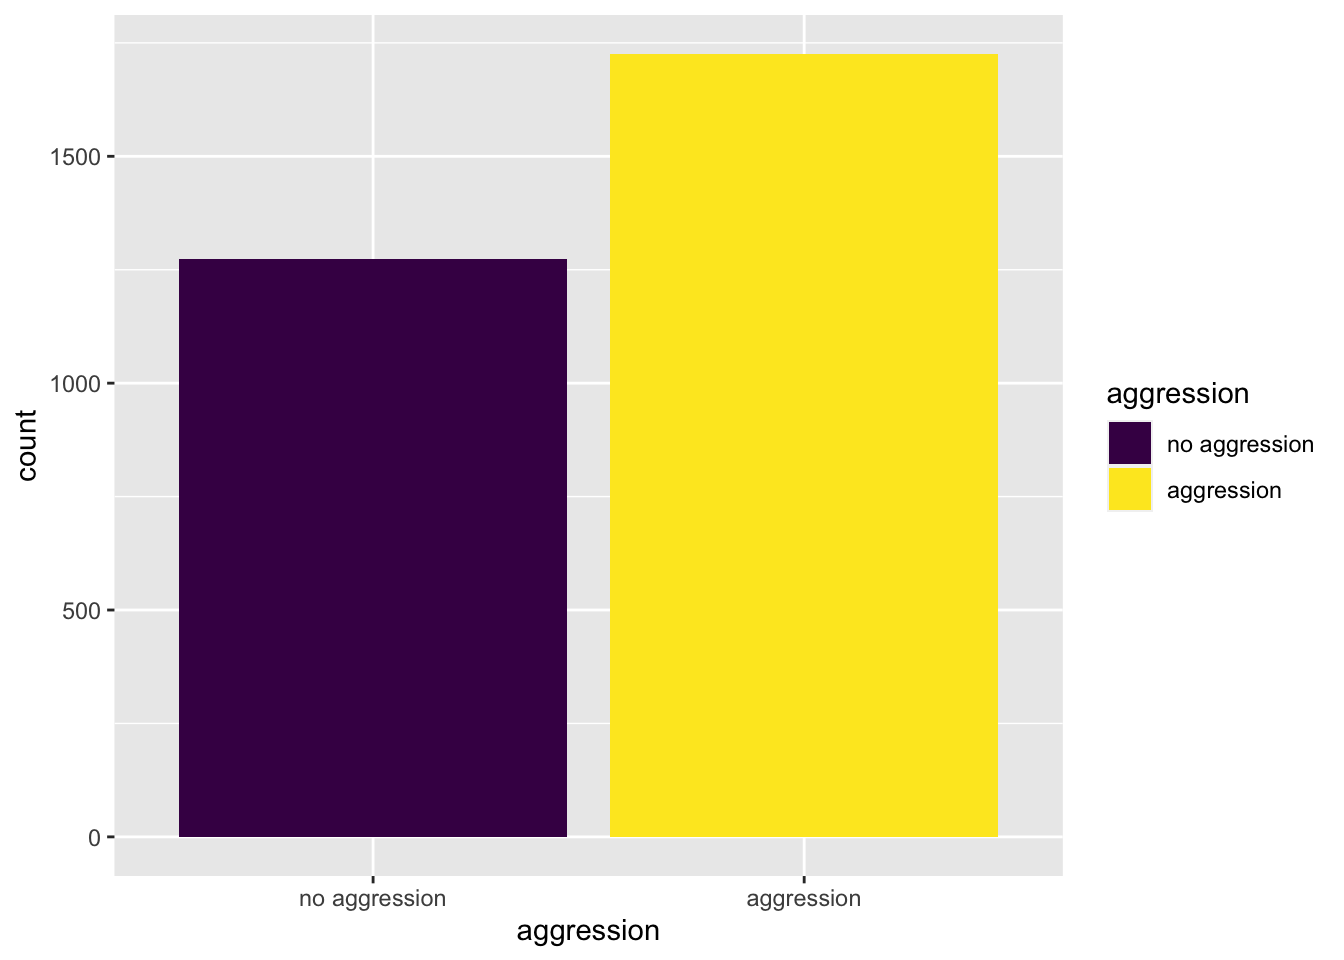
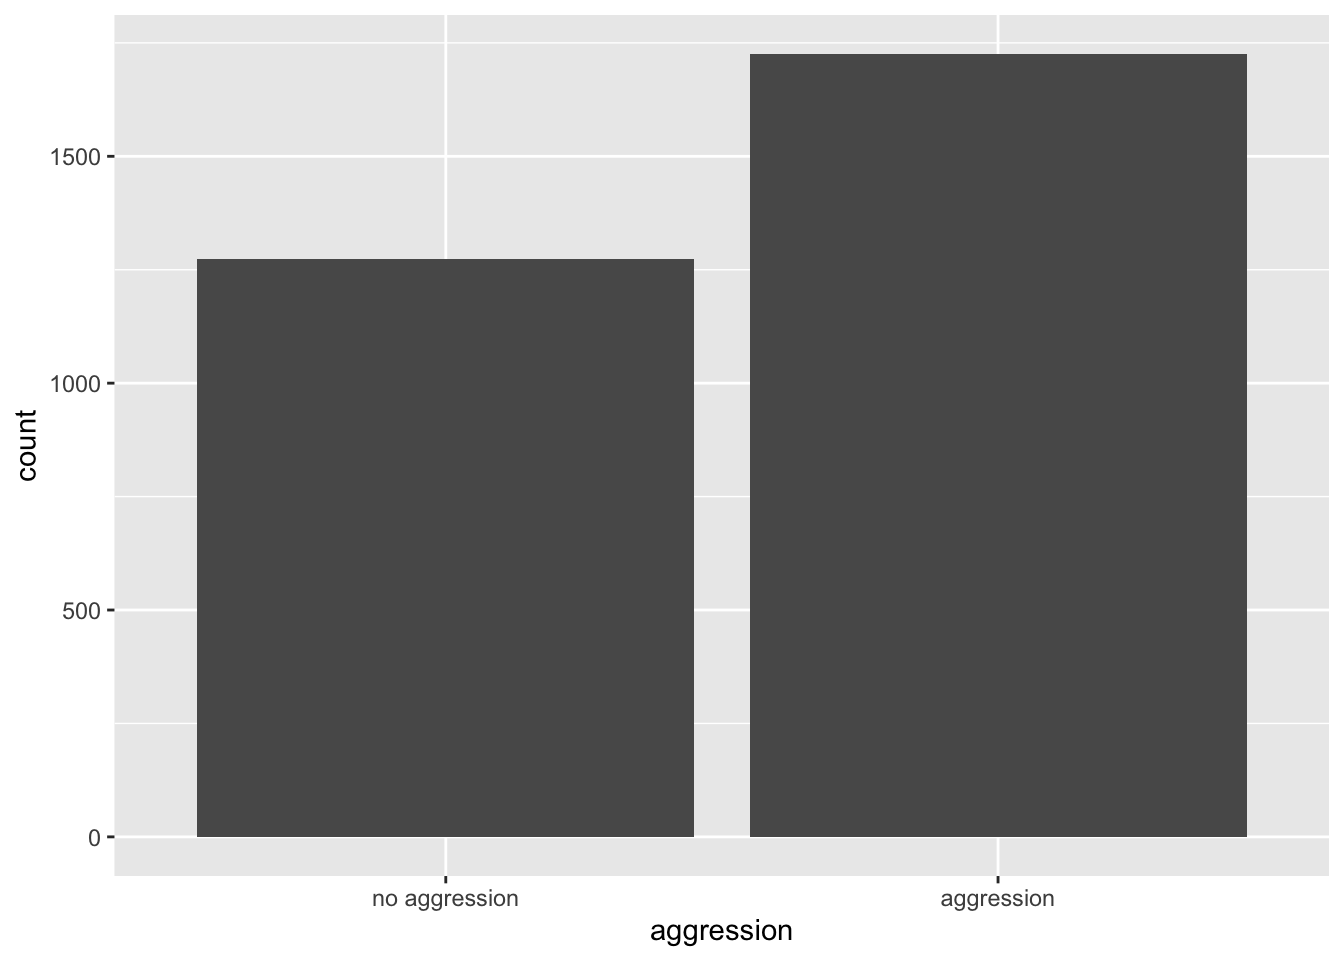
rebuilt and published to quarto

diff --git a/docs/quick-intro-ggplot2.html b/docs/quick-intro-ggplot2.html
@@ -368,9 +368,8 @@ code span.wa { color: #60a0b0; font-weight: bold; font-style: italic; } /* Warni
 </div>
 <div class="cell">
 <div class="sourceCode cell-code" id="cb6"><pre class="sourceCode r code-with-copy"><code class="sourceCode r"><span id="cb6-1"><a href="#cb6-1" aria-hidden="true" tabindex="-1"></a><span class="fu">ggplot</span>(MICSsimulated, <span class="co"># the data I am using</span></span>
-<span id="cb6-2"><a href="#cb6-2" aria-hidden="true" tabindex="-1"></a>       <span class="fu">aes</span>(<span class="at">x =</span> aggression, </span>
-<span id="cb6-3"><a href="#cb6-3" aria-hidden="true" tabindex="-1"></a>           <span class="at">fill =</span> aggression)) <span class="sc">+</span> <span class="co"># the variable I am using</span></span>
-<span id="cb6-4"><a href="#cb6-4" aria-hidden="true" tabindex="-1"></a>  <span class="fu">geom_bar</span>() <span class="co"># how I am graphing it</span></span></code><button title="Copy to Clipboard" class="code-copy-button"><i class="bi"></i></button></pre></div>
+<span id="cb6-2"><a href="#cb6-2" aria-hidden="true" tabindex="-1"></a>       <span class="fu">aes</span>(<span class="at">x =</span> aggression)) <span class="sc">+</span> <span class="co"># the variable I am using</span></span>
+<span id="cb6-3"><a href="#cb6-3" aria-hidden="true" tabindex="-1"></a>  <span class="fu">geom_bar</span>() <span class="co"># how I am graphing it</span></span></code><button title="Copy to Clipboard" class="code-copy-button"><i class="bi"></i></button></pre></div>
 <div class="cell-output-display">
 <p><img src="quick-intro-ggplot2_files/figure-html/unnamed-chunk-4-1.png" class="img-fluid" width="672"></p>
 </div>
